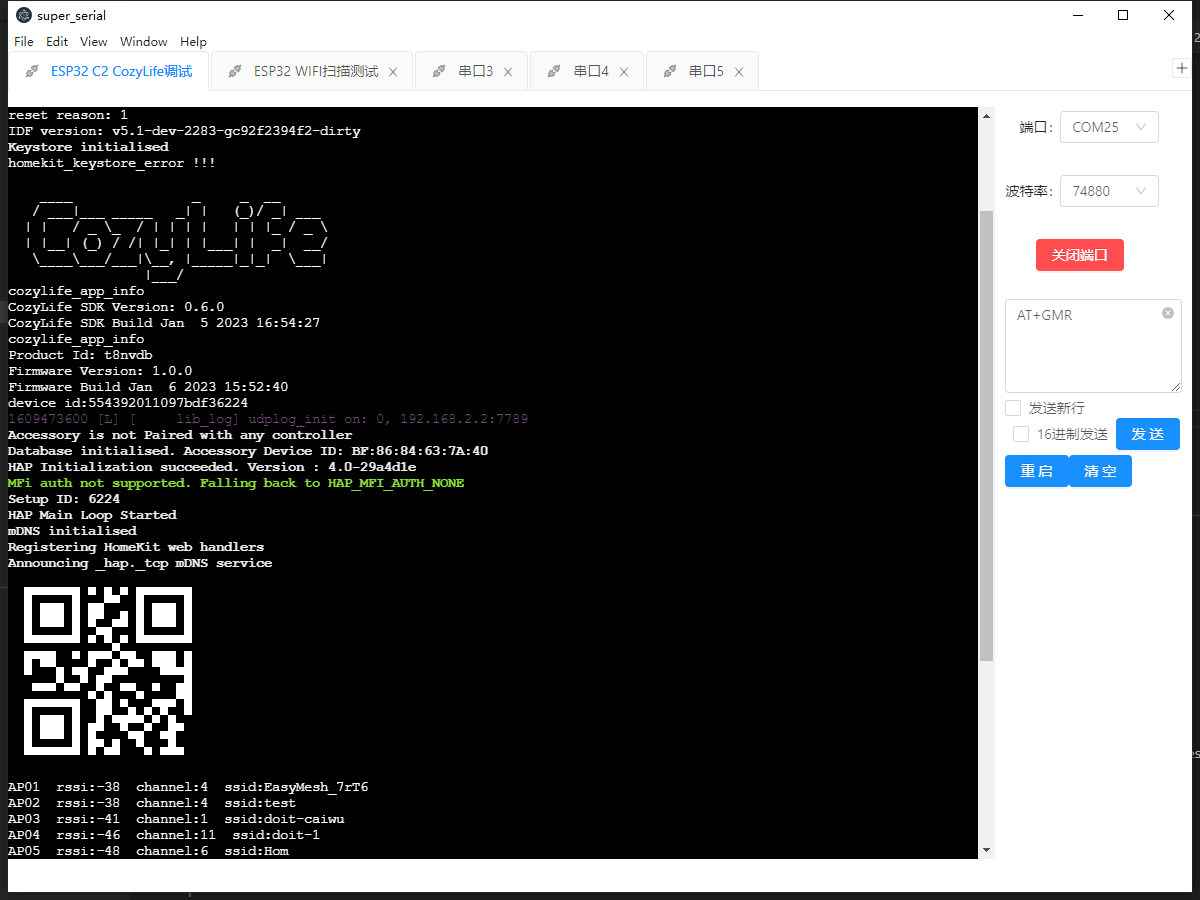
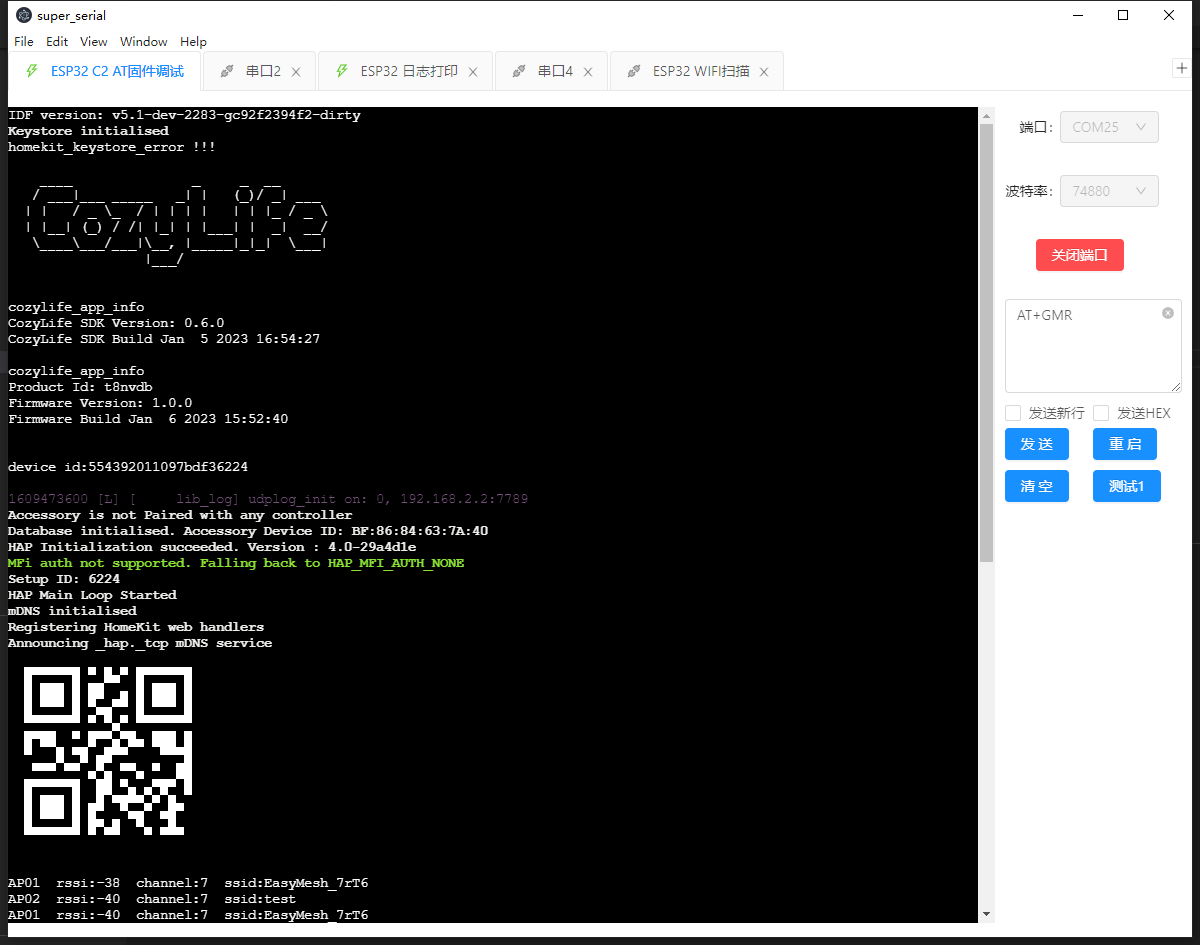
增加tag

diff --git a/src/views/SerialTabContainer.vue b/src/views/SerialTabContainer.vue
@@ -5,7 +5,22 @@
       title="串口备注"
       @ok="editTabRemarkModalOk"
     >
-      <a-input v-model="editTabRemark" placeholder="请输入串口备注名称" />
+      <a-input
+        v-model="editTabRemark"
+        placeholder="请输入串口备注名称"
+        allow-clear
+      />
+
+      <div style="margin-top: 10px">
+        <span>常用标签:&emsp;</span>
+        <a-tag
+          style="margin-top: 5px"
+          v-for="item in generalRemarkTagList"
+          @click="generalRemarkTagClick(item.text)"
+          :key="item.text"
+          >{{ item.text }}</a-tag
+        >
+      </div>
     </a-modal>
     <a-tabs v-model="activeKey" type="editable-card" @edit="onEdit">
       <a-tab-pane
@@ -40,6 +55,36 @@ export default {
       { title: "串口1", key: "串口1", connectState: false, closable: false },
     ];
     return {
+      generalRemarkTagList: [
+        {
+          color: "#2db7f5",
+          text: "ESP8266",
+        },
+        {
+          color: "#f50",
+          text: "ESP32",
+        },
+        {
+          color: "#87d068",
+          text: "C2",
+        },
+        {
+          color: "#108ee9",
+          text: "C3",
+        },
+        {
+          color: "#108ee9",
+          text: "C6",
+        },
+        {
+          color: "#108ee9",
+          text: "S2",
+        },
+        {
+          color: "#108ee9",
+          text: "S3",
+        },
+      ],
       editTabRemark: "",
       currentSelectTab: "",
       editTabRemarkModalVisible: false,
@@ -50,14 +95,15 @@ export default {
   },
   mounted() {},
   methods: {
+    generalRemarkTagClick(text) {
+      this.editTabRemark += text;
+    },
     updateTabSerialPortConnectState(data) {
       this.panes.forEach((ele) => {
         if (ele.key === data.name) {
           ele.connectState = data.state;
         }
       });
-
-
     },
     editTabRemarkModalOk() {
       if (this.editTabRemark == "") {

diff --git a/README.md b/README.md
@@ -3,11 +3,13 @@
 一款跨平台的串口工具
 
 # 📔Todo...
-* 日志颜色解析ansi color 
-* tab串口标签页
-* 支持插件扩展
-* 搜索功能
+* tab标签页✅
+* tab标签页备注✅
+* 支持插件扩展🔲
+* 搜索功能🔲
+* 国际化🔲
 * 开发中......
 
 # Some Screenshots
 ![](images/1.png)
+![](images/2.png)
